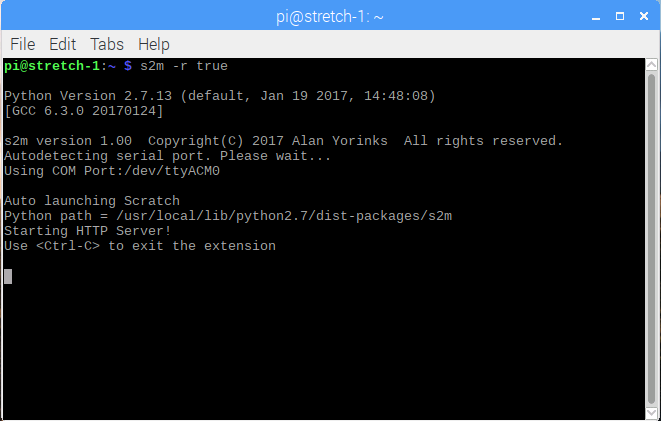
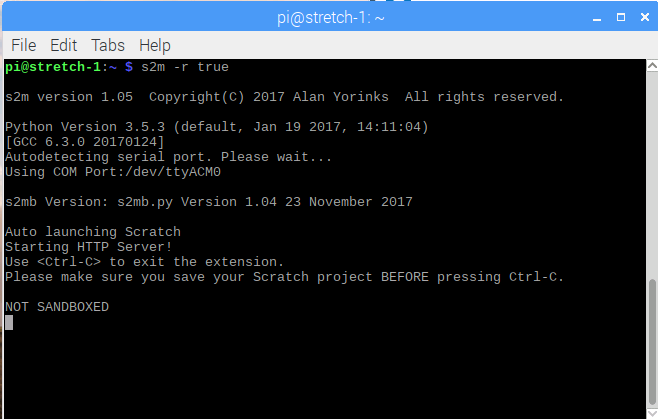
Deployed d22f90f with MkDocs version: 0.17.1

Changed region(s): [[0.0, 0.0, 1.0, 1.0], [0.3951, 0.0, 0.5775, 0.0621], [0.0, 0.0, 0.0304, 0.031]]

diff --git a/usage/index.html b/usage/index.html
@@ -151,6 +151,7 @@
 <p>The program begins by announcing s2m's version number and thePython version in use.</p>
 <p>Next, s2m attempts to auto detect the communication port the micro:bit is connected to and announces
 the port found.</p>
+<p>It detects and announces the version of micro:bit script <em>s2mb.py</em> that was flashed to the micro:bit.</p>
 <p>It then launches Scratch and you should select the More Blocks tab to view the s2m blocks. </p>
 <p>When the connectivity indicator on the Scratch editor turns green, the program is ready to be used.</p>
 <p><img align="center" src="../images/launch.png"></p>
@@ -194,22 +195,7 @@ This will close both s2m and Scratch. </p>
 </code></pre>
 
 <p>You should then see something like this on your screen:</p>
-<pre><code>C:\Users\Alan&gt;s2m -c no_client
-
-s2m version 1.03  Copyright(C) 2017 Alan Yorinks  All rights reserved.
-
-Python Version 3.6.3 (v3.6.3:2c5fed8, Oct  3 2017, 18:11:49) [MSC v.1900 64 bit (AMD64)]
-Autodetecting serial port. Please wait...
-Using COM Port:com4
-
-micro:bit Python script may be found at c:\users\alan\appdata\local\programs\python\python36\lib\site-packages/s2m/micro_bit_scripts
-Use the mu editor (https://codewith.mu/) to flash your micro:bit.
-Please start Scratch.
-Starting HTTP Server!
-Use &lt;Ctrl-C&gt; to exit the extension.
-Please make sure you save your Scratch project BEFORE pressing Ctrl-C.
-</code></pre>
-
+<p><img align="center" src="../images/no_client.png"></p>
 <h2 id="manual-start-step-3">Manual Start: Step 3</h2>
 <p>Next, start Scratch up manually, then select File/Load from the Scratch menu.
 and load the file you downloaded in step 1.</p>

diff --git a/install/index.html b/install/index.html
@@ -179,7 +179,7 @@ You may also find the script <a href="">here</a>.</p>
  along with this library; if not, write to the Free Software
  Foundation, Inc., 51 Franklin St, Fifth Floor, Boston, MA  02110-1301  USA
 
- Last modified 21 November 2017
+ Last modified 23 November 2017
 &quot;&quot;&quot;
 
 from microbit import *
@@ -198,6 +198,7 @@ from microbit import *
 #   c - clear the display (no parameters)
 #   a - analog write for the specified pin and value (range 0-1023)
 #   t - digital write for the specified pin and value (0 or 1)
+#   v - get version string
 
 while True:
     data = uart.readline()
@@ -253,10 +254,10 @@ while True:
                           &quot;ARROW_NW&quot;: Image.ARROW_NW}
 
             # get image key
-            # try:
-            image_key = cmd_list[1]
-            # except IndexError:
-            #     continue
+            try:
+                image_key = cmd_list[1]
+            except IndexError:
+                continue
             if image_key in image_dict:
                 display.show(image_dict.get(image_key), wait=False)
 
@@ -394,6 +395,10 @@ while True:
             sensor_string += str(pin2.read_analog())
 
             print(sensor_string)
+
+        if cmd == 'v':
+            print('s2mb.py Version 1.04 23 November 2017')
+
 
 
 </code></pre>

diff --git a/index.html b/index.html
@@ -222,5 +222,5 @@ that Raspberry Pi users can also enjoy programming with s2m.</p>
 
 <!--
 MkDocs version : 0.17.1
-Build Date UTC : 2017-11-23 14:06:35
+Build Date UTC : 2017-11-24 15:18:37
 -->
